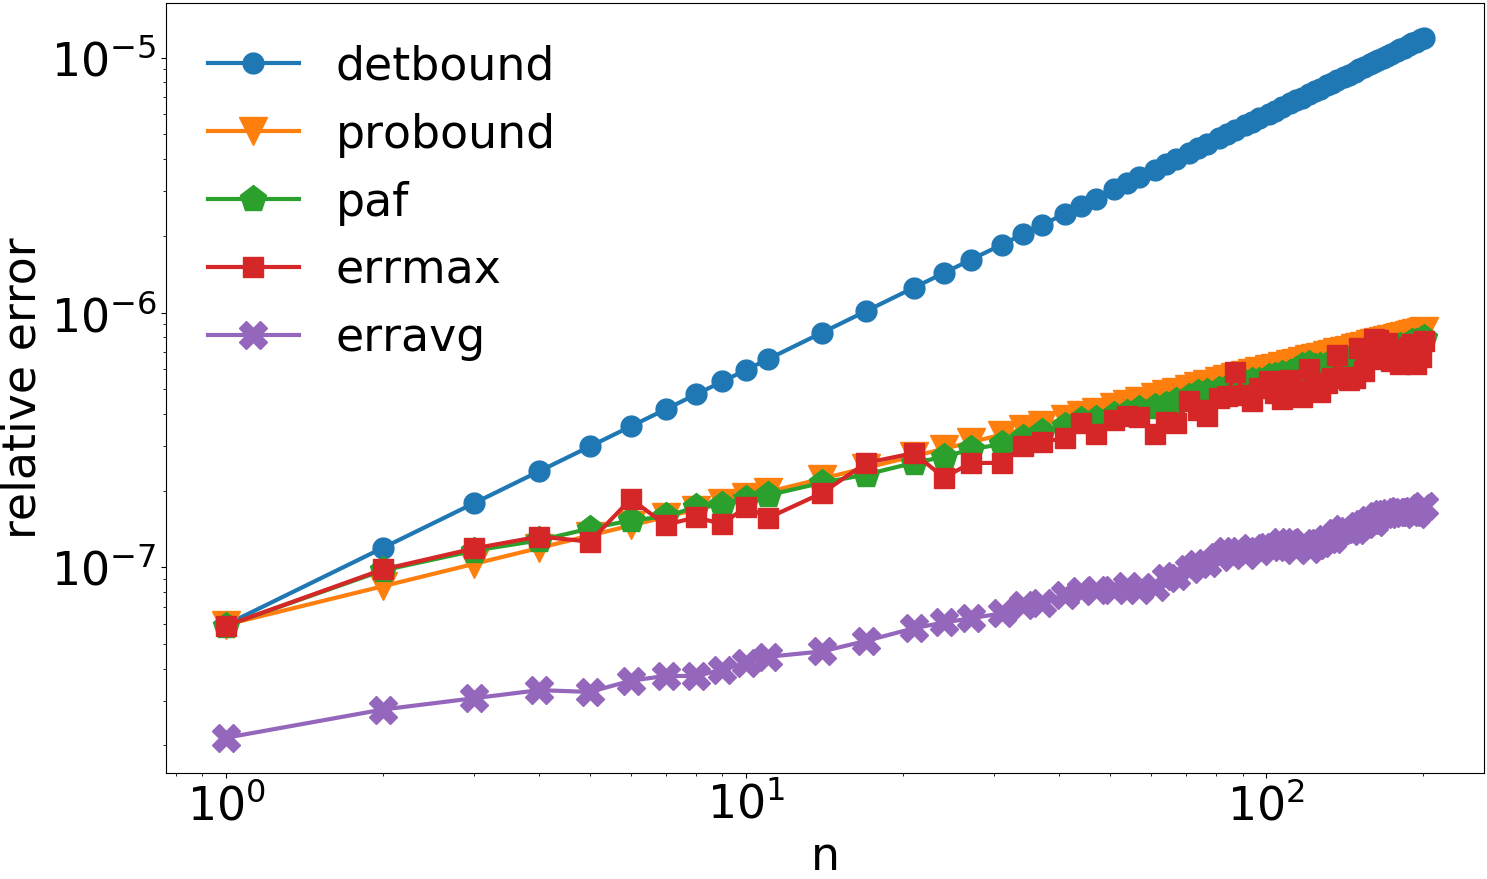
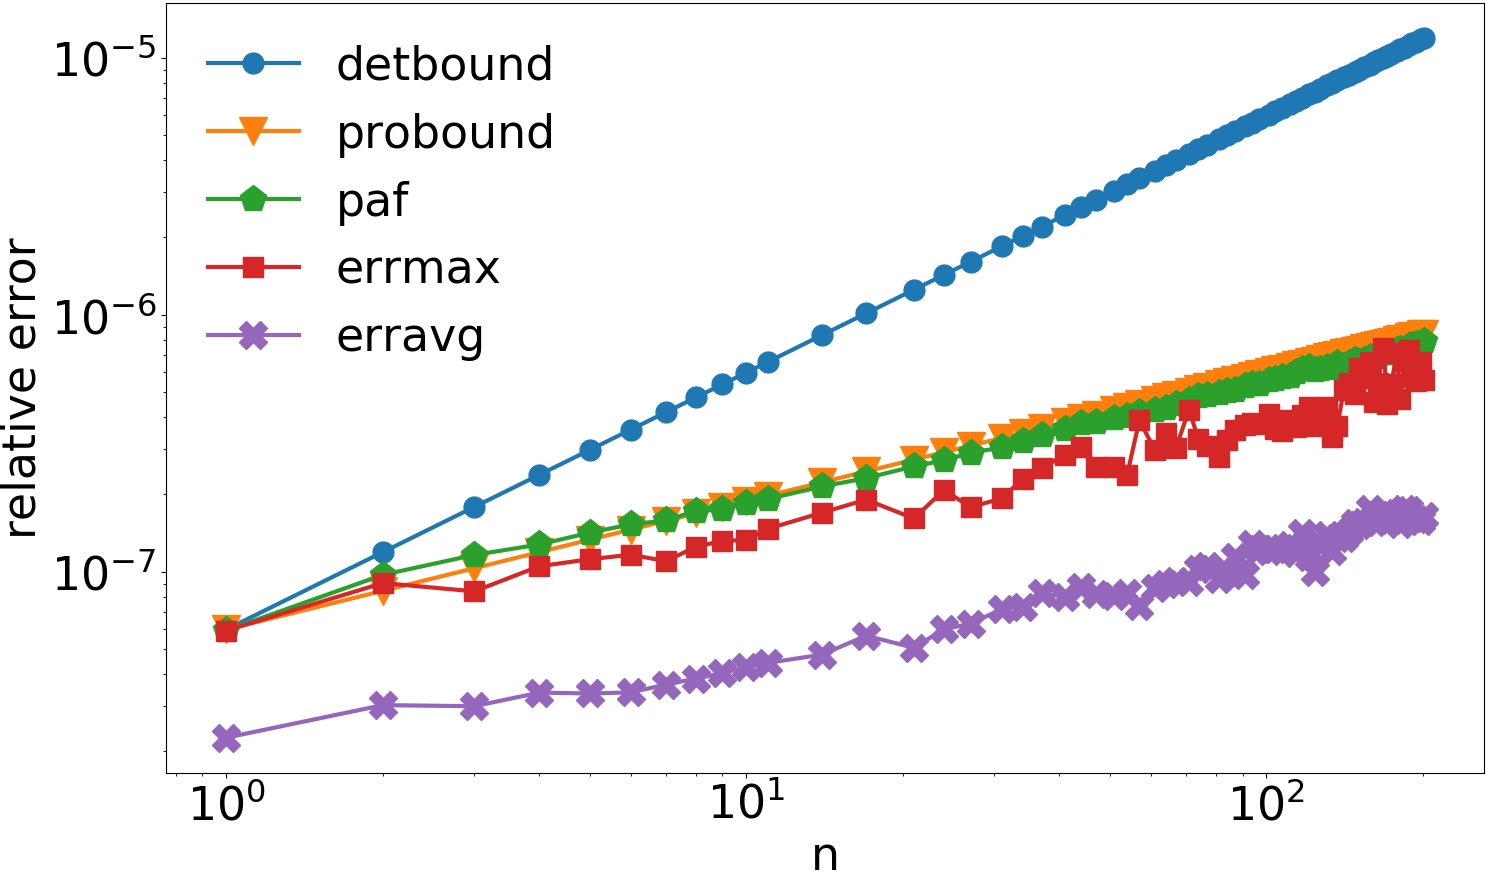
Rocco: beta distribution small bug

diff --git a/Higham/Dot_Product_Variables/1/beta/plotter.py b/Higham/Dot_Product_Variables/1/beta/plotter.py
@@ -11,7 +11,7 @@ x=list(map(int, x))
 markers=[".","v","p","s","x"]
 i=0
 
-lambda_="1"
+lambda_="5"
 
 #for folder in os.listdir("./"):
 #	if "1_" in folder and ".txt" in folder and not "1_x" in folder:
